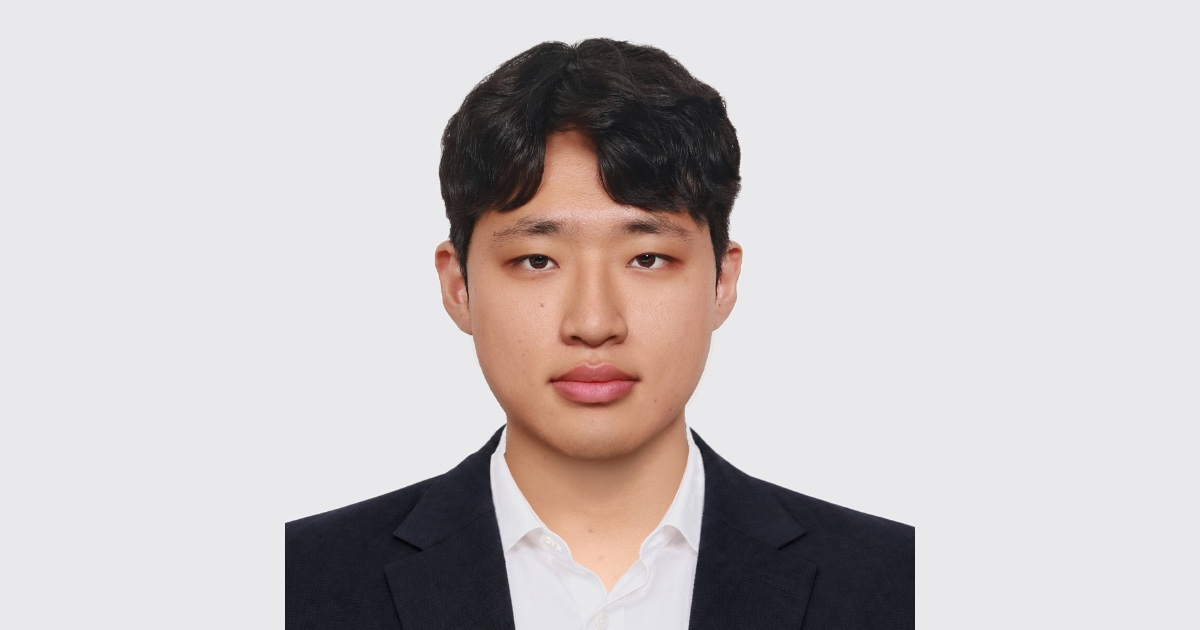
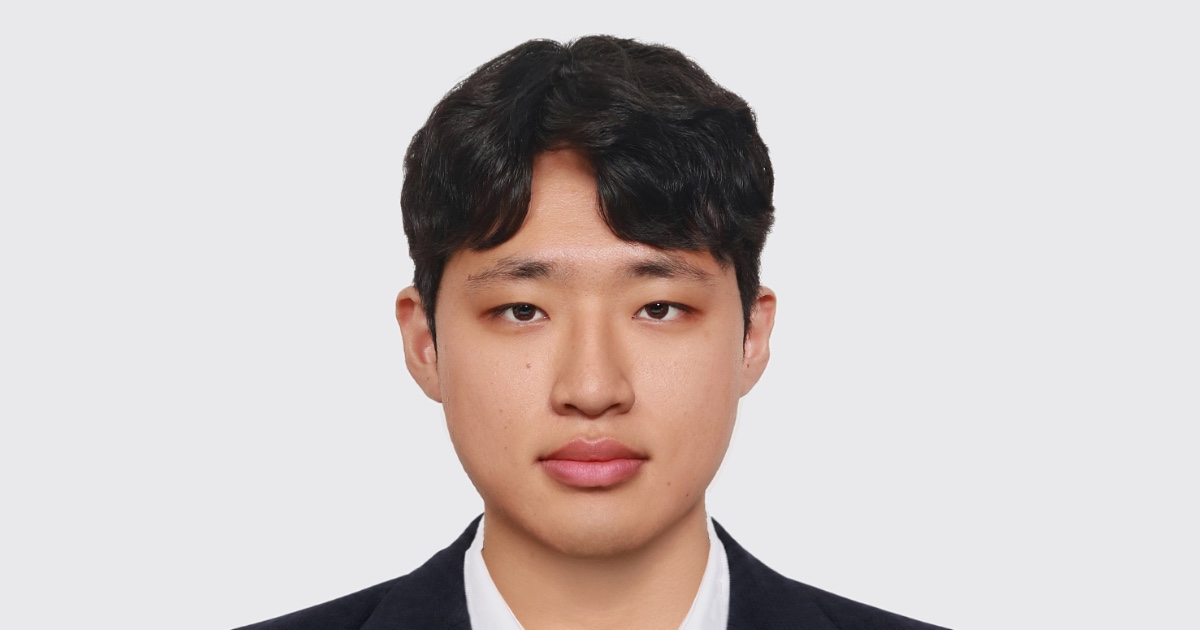
Zoom preview photo so shoulders are not cut at the sides

Changed region(s): [[0.185, 0.0302, 0.8017, 1.0]]

diff --git a/public/ko/index.html b/public/ko/index.html
@@ -7,7 +7,7 @@
 	<title>임준현 (Justin Lim)</title>
 	<meta property="og:title" content="Justin Lim">
 	<meta property="og:description" content="@ex-Typa (YC S24)">
-	<meta property="og:image" content="https://justinl.im/og.jpg?v=6">
+	<meta property="og:image" content="https://justinl.im/og.jpg?v=7">
 	<meta property="og:image:width" content="1200">
 	<meta property="og:image:height" content="630">
 	<meta property="og:url" content="https://justinl.im/ko/">

diff --git a/public/index.html b/public/index.html
@@ -7,7 +7,7 @@
 	<title>Justin Lim</title>
 	<meta property="og:title" content="Justin Lim">
 	<meta property="og:description" content="@ex-Typa (YC S24)">
-	<meta property="og:image" content="https://justinl.im/og.jpg?v=6">
+	<meta property="og:image" content="https://justinl.im/og.jpg?v=7">
 	<meta property="og:image:width" content="1200">
 	<meta property="og:image:height" content="630">
 	<meta property="og:url" content="https://justinl.im/">
